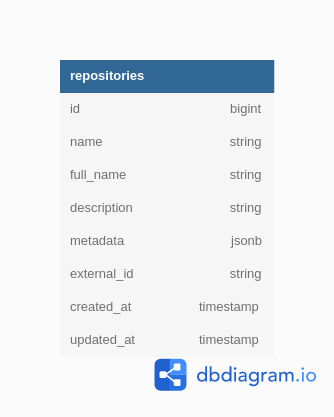
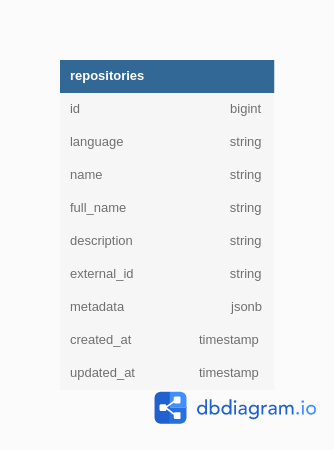
CD (#9)

diff --git a/app/services/repositories_service.rb b/app/services/repositories_service.rb
@@ -47,16 +47,16 @@ class RepositoriesService
   end
 
   def successful(body)
-    result = JSON.parse(body)['items'].first
-
-    Repository.create(
-      language:,
-      name: result['name'],
-      full_name: result['full_name'],
-      description: result['description'],
-      external_id: result['id'].to_s,
-      metadata: result
-    )
+    if (result = JSON.parse(body)['items'].first).present?
+      Repository.create(
+        language:,
+        name: result['name'],
+        full_name: result['full_name'],
+        description: result['description'],
+        external_id: result['id'].to_s,
+        metadata: result
+      )
+    end
   end
 
   def unsuccessful(body)

diff --git a/config/initializers/sentry.rb b/config/initializers/sentry.rb
@@ -1,0 +1,13 @@
+Sentry.init do |config|
+  config.dsn = ENV['SENTRY_DNS']
+  config.breadcrumbs_logger = %i[active_support_logger http_logger]
+
+  # Set traces_sample_rate to 1.0 to capture 100%
+  # of transactions for performance monitoring.
+  # We recommend adjusting this value in production.
+  config.traces_sample_rate = 1.0
+  # or
+  config.traces_sampler = lambda do |_context|
+    true
+  end
+end

diff --git a/config/environments/production.rb b/config/environments/production.rb
@@ -59,7 +59,7 @@ Rails.application.configure do
   # config.cache_store = :mem_cache_store
 
   # Use a real queuing backend for Active Job (and separate queues per environment).
-  # config.active_job.queue_adapter     = :resque
+  config.active_job.queue_adapter = :sidekiq
   # config.active_job.queue_name_prefix = "git_jmd_production"
 
   config.action_mailer.perform_caching = false

diff --git a/app/models/repository.rb b/app/models/repository.rb
@@ -3,6 +3,7 @@ class Repository < ApplicationRecord
 
   enum language: LANGUAGES.index_with(&:to_s), _prefix: true
 
+  validates :language, presence: true
   validates :name, presence: true
   validates :full_name, presence: true
   validates :description, presence: false

diff --git a/spec/models/repository_spec.rb b/spec/models/repository_spec.rb
@@ -9,6 +9,10 @@ RSpec.describe Repository, type: :model do
     }
   end
 
+  describe '#language' do
+    it { is_expected.to validate_presence_of :language }
+  end
+
   describe '#name' do
     it { is_expected.to validate_presence_of :name }
   end

diff --git a/config/environments/development.rb b/config/environments/development.rb
@@ -67,4 +67,5 @@ Rails.application.configure do
 
   # Uncomment if you wish to allow Action Cable access from any origin.
   # config.action_cable.disable_request_forgery_protection = true
+  # config.active_job.queue_adapter = :sidekiq
 end

diff --git a/README.md b/README.md
@@ -4,9 +4,11 @@
 
 ## AWS Resoucers
 
+http://ec2-3-236-44-147.compute-1.amazonaws.com
+
 - RDS
   - DB: Postgresql
-  - Version: 14.1-R1
+  - Version: 14.2-R1
   - Instance: db.t3.micro
   - Free Tier? Yes
 - ElastiCash
@@ -15,6 +17,11 @@
   - Instance: cash.t4g.micro
   - Free Tier? No
   - Price Per Hour: $0.016
+- ECS
+  - Type: EC2
+  - Instance: t3a.small
+  - Free Tier? No
+  - Price Per Hour: $0,0188
 
 ## Setup
 
@@ -37,7 +44,6 @@ cd github
     rubocop -a
     bundle-audit
     circleci config validate
-
 
     date > .keep
     git status
